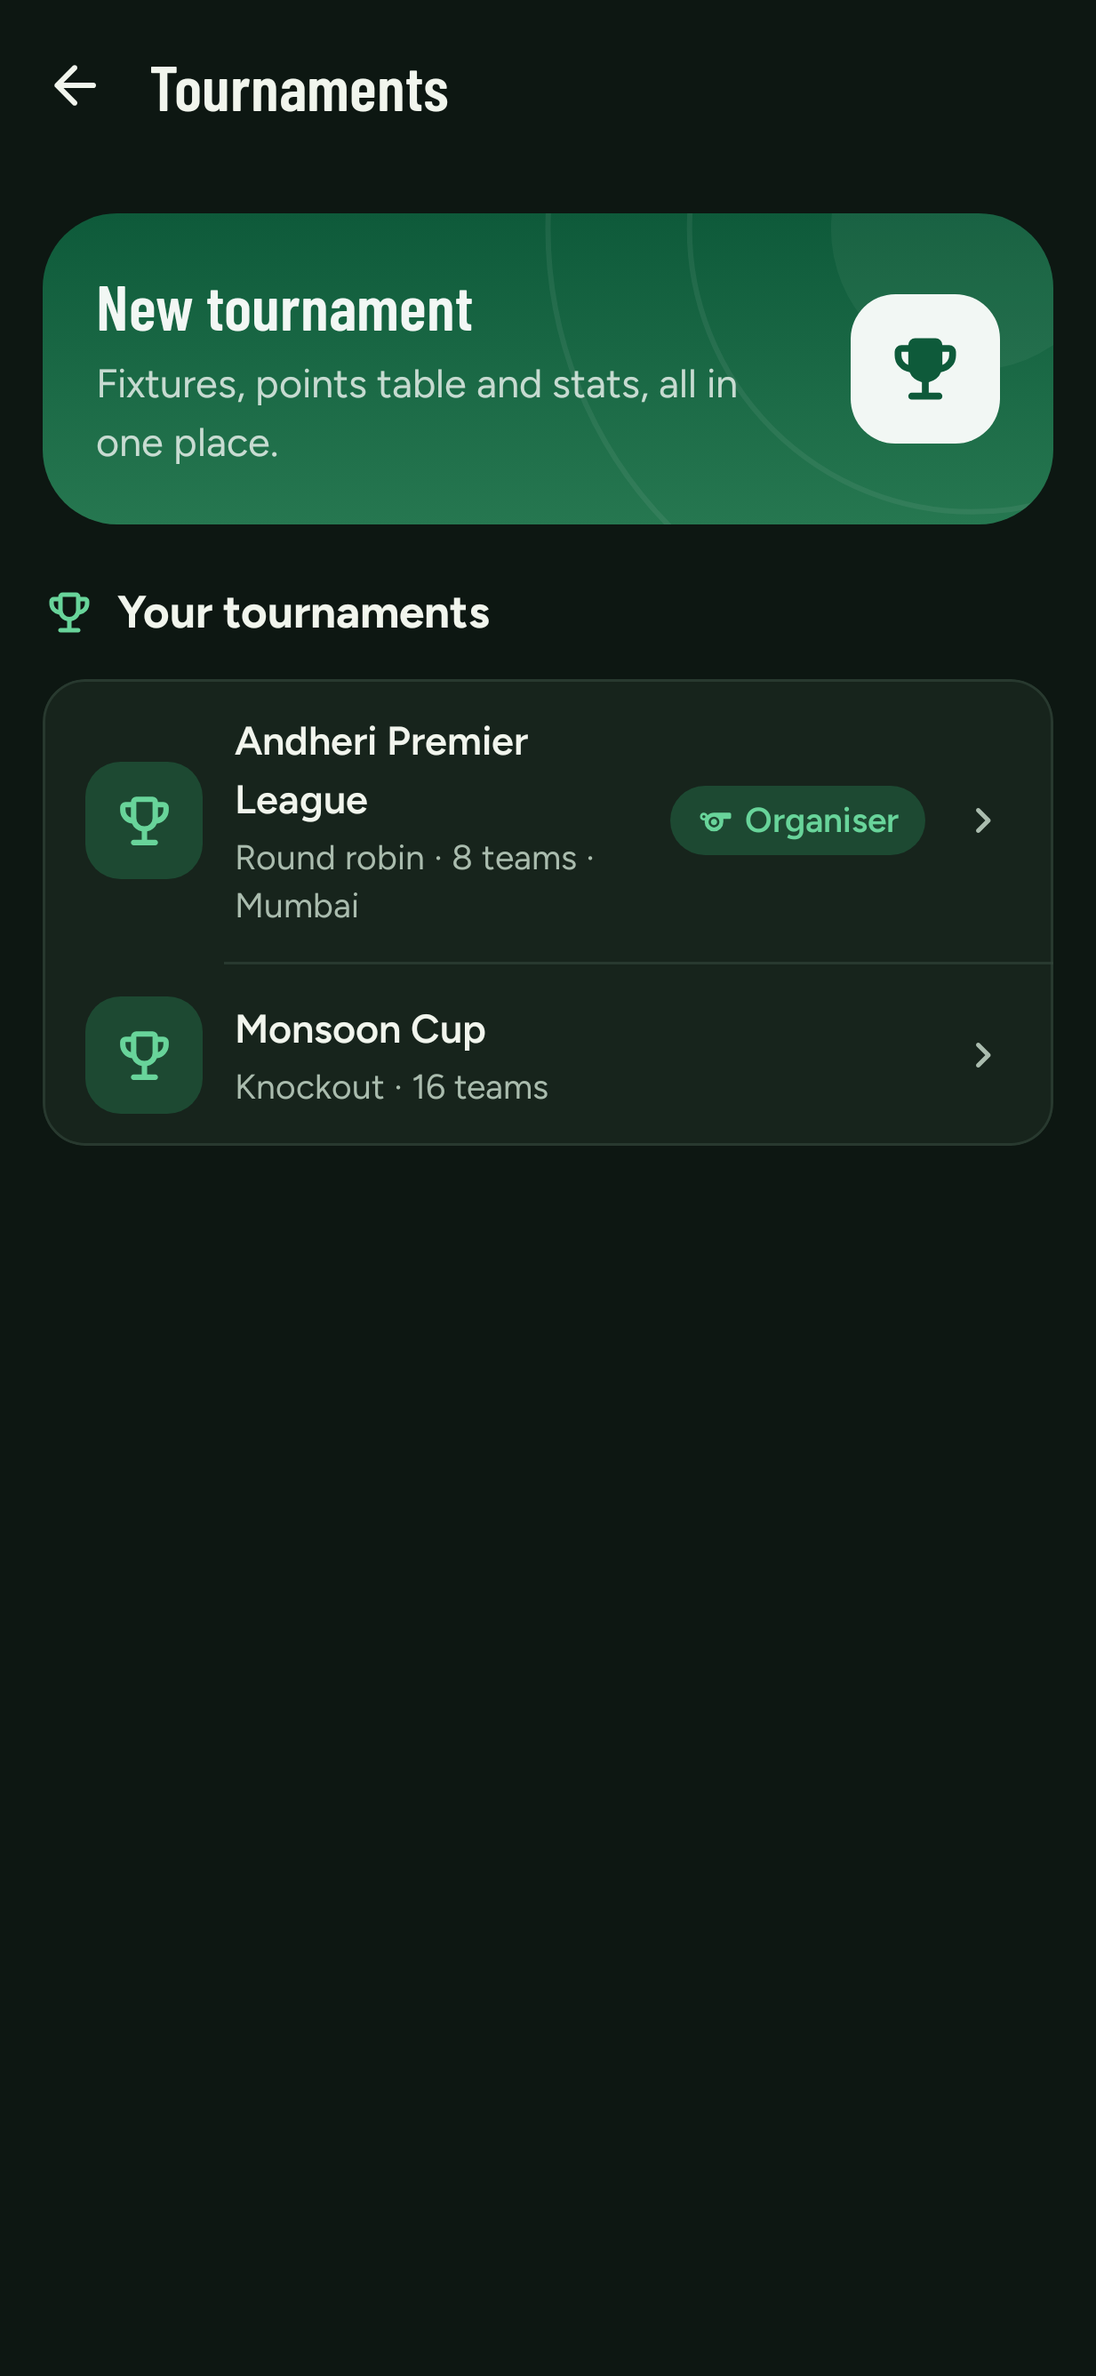
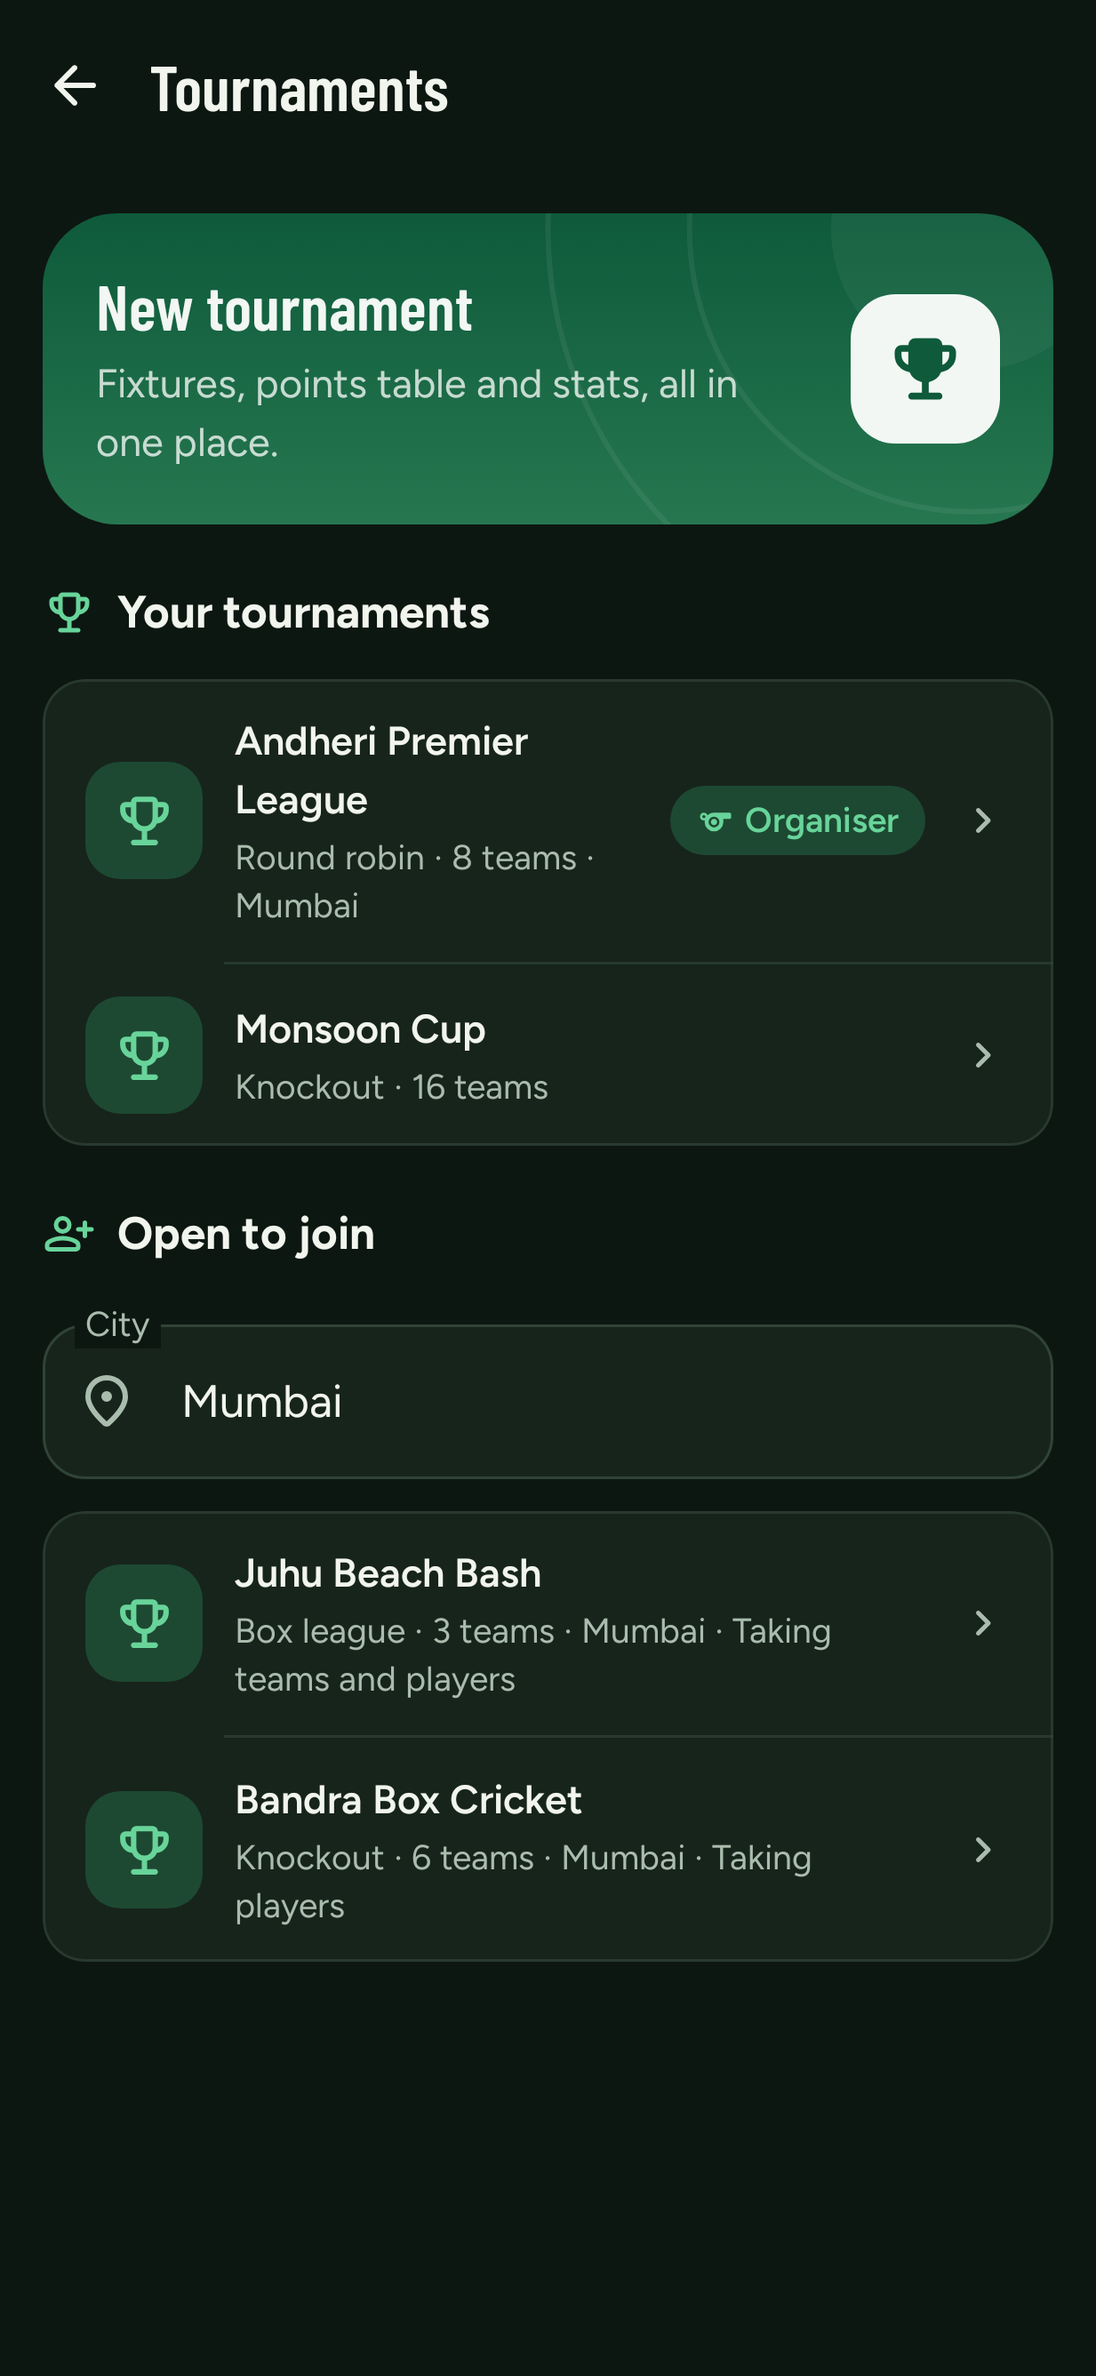
List tournaments open to join on the Tournaments tab
The Tournaments tab gets an "Open to join" section: tournaments that
haven't started and take teams or players, in the user's city (which
they can change, or clear for anywhere), soonest start first.

diff --git a/app/shared/src/commonMain/kotlin/com/harsh/desicrics/ui/tournament/TournamentsScreen.kt b/app/shared/src/commonMain/kotlin/com/harsh/desicrics/ui/tournament/TournamentsScreen.kt
@@ -62,18 +62,21 @@ import com.harsh.desicrics.ui.newmatch.ExtraRunQuestions
 import com.harsh.desicrics.ui.newmatch.RulesPreset
 import org.jetbrains.compose.resources.pluralStringResource
 import org.jetbrains.compose.resources.stringResource
+import com.harsh.desicrics.ui.text.dayLabel
 import org.koin.compose.viewmodel.koinViewModel
+import org.koin.core.parameter.parametersOf
 
 @Composable
 fun TournamentsScreen(
+    city: String,
     onOpen: (String) -> Unit,
     /** Null where it is a tab of its own, with nothing behind it. */
     onBack: (() -> Unit)?,
-    viewModel: TournamentsViewModel = koinViewModel(),
+    viewModel: TournamentsViewModel = koinViewModel { parametersOf(city) },
 ) {
     val state by viewModel.state.collectAsStateWithLifecycle()
     var creating by rememberSaveable { mutableStateOf(false) }
-    TournamentsContent(state, onOpen, onCreate = { creating = true }, onBack, onRetry = viewModel::retry)
+    TournamentsContent(state, onOpen, onCreate = { creating = true }, onBack, onRetry = viewModel::retry, onCity = viewModel::setCity)
     if (creating) {
         CreateTournamentSheet(
             saving = state.saving,
@@ -88,7 +91,14 @@ fun TournamentsScreen(
 }
 
 @Composable
-fun TournamentsContent(state: TournamentsUiState, onOpen: (String) -> Unit, onCreate: () -> Unit, onBack: (() -> Unit)?, onRetry: () -> Unit = {}) {
+fun TournamentsContent(
+    state: TournamentsUiState,
+    onOpen: (String) -> Unit,
+    onCreate: () -> Unit,
+    onBack: (() -> Unit)?,
+    onRetry: () -> Unit = {},
+    onCity: (String) -> Unit = {},
+) {
     val space = DesiTheme.space
     DesiScaffold(title = stringResource(Res.string.tournaments_title), onBack = onBack) { padding ->
         LazyColumn(
@@ -107,6 +117,29 @@ fun TournamentsContent(state: TournamentsUiState, onOpen: (String) -> Unit, onCr
                 item {
                     ListCard {
                         state.tournaments.forEachIndexed { index, t -> TournamentRow(t, divider = index > 0, onClick = { onOpen(t.id) }) }
+                    }
+                }
+            }
+            if (!state.loadFailed) {
+                item { SectionHeader(stringResource(Res.string.tournaments_open), icon = DesiIcons.PersonAdd, modifier = Modifier.padding(top = space.s2)) }
+                item {
+                    DesiTextField(
+                        value = state.city,
+                        onValueChange = onCity,
+                        label = stringResource(Res.string.community_city),
+                        leadingIcon = DesiIcons.Location,
+                        supportingText = stringResource(Res.string.tournaments_open_anywhere).takeIf { state.city.isBlank() },
+                        keyboardOptions = KeyboardOptions(capitalization = KeyboardCapitalization.Words),
+                    )
+                }
+                // The user's own tournaments are listed above already.
+                val mine = state.tournaments.map { it.id }.toSet()
+                val open = state.open.filter { it.id !in mine }
+                item {
+                    if (open.isEmpty()) {
+                        Text(stringResource(Res.string.tournaments_open_none), style = DesiTheme.type.caption, color = DesiTheme.colors.muted)
+                    } else {
+                        ListCard { open.forEachIndexed { index, t -> TournamentRow(t, divider = index > 0, onClick = { onOpen(t.id) }) } }
                     }
                 }
             }
@@ -134,10 +167,18 @@ private fun CreateTournamentCard(onCreate: () -> Unit) {
 
 @Composable
 private fun TournamentRow(tournament: TournamentSummary, divider: Boolean, onClick: () -> Unit) {
+    val taking = when {
+        tournament.takesTeams && tournament.takesPlayers -> stringResource(Res.string.tournaments_taking_both)
+        tournament.takesTeams -> stringResource(Res.string.tournaments_taking_teams)
+        tournament.takesPlayers -> stringResource(Res.string.tournaments_taking_players)
+        else -> ""
+    }
     val details = listOf(
         stringResource(tournament.format.label),
         pluralStringResource(Res.plurals.tournaments_team_count, tournament.teams, tournament.teams),
         tournament.city,
+        tournament.startsAt?.let { stringResource(Res.string.tournaments_starts, dayLabel(it)) }.orEmpty(),
+        taking,
     )
     ListRow(
         title = tournament.name,

diff --git a/server/src/main/kotlin/com/harsh/desicrics/store/ExposedTournamentStore.kt b/server/src/main/kotlin/com/harsh/desicrics/store/ExposedTournamentStore.kt
@@ -9,6 +9,7 @@ import com.harsh.desicrics.db.TournamentTeamsTable
 import com.harsh.desicrics.db.TournamentsTable
 import com.harsh.desicrics.db.query
 import com.harsh.desicrics.api.EntrySettingsRequest
+import com.harsh.desicrics.model.EntryPolicy
 import com.harsh.desicrics.model.EntryStatus
 import com.harsh.desicrics.model.Organiser
 import com.harsh.desicrics.model.OrganiserRole
@@ -21,7 +22,9 @@ import org.jetbrains.exposed.v1.core.JoinType
 import org.jetbrains.exposed.v1.core.SortOrder
 import org.jetbrains.exposed.v1.core.and
 import org.jetbrains.exposed.v1.core.eq
+import org.jetbrains.exposed.v1.core.greater
 import org.jetbrains.exposed.v1.core.inList
+import org.jetbrains.exposed.v1.core.lowerCase
 import org.jetbrains.exposed.v1.core.isNull
 import org.jetbrains.exposed.v1.core.neq
 import org.jetbrains.exposed.v1.core.or
@@ -137,6 +140,30 @@ class ExposedTournamentStore(private val db: Database) : TournamentStore {
         TournamentsTable.selectAll().where { TournamentsTable.id inList ids }.orderBy(TournamentsTable.createdAt, SortOrder.DESC).map {
             val id = it[TournamentsTable.id]
             TournamentSummary(id, it[TournamentsTable.name], it[TournamentsTable.city], it[TournamentsTable.format], counts[id] ?: 0, id in organised)
+        }
+    }
+
+    override suspend fun open(city: String, now: Long, limit: Int): List<TournamentSummary> = db.query {
+        val taking = (TournamentsTable.teamEntry neq EntryPolicy.ORGANISERS) or (TournamentsTable.playerEntry neq EntryPolicy.ORGANISERS)
+        val notClosed = TournamentsTable.entryClosesAt.isNull() or (TournamentsTable.entryClosesAt greater now)
+        val where = (TournamentsTable.started eq false) and taking and notClosed
+        val rows = TournamentsTable.selectAll()
+            .where { if (city.isBlank()) where else where and (TournamentsTable.city.lowerCase() eq city.trim().lowercase()) }
+            .orderBy(TournamentsTable.startsAt to SortOrder.ASC_NULLS_LAST, TournamentsTable.createdAt to SortOrder.DESC)
+            .limit(limit)
+            .toList()
+        val ids = rows.map { it[TournamentsTable.id] }
+        val counts = if (ids.isEmpty()) emptyMap() else TournamentTeamsTable.selectAll()
+            .where { (TournamentTeamsTable.tournamentId inList ids) and (TournamentTeamsTable.status eq EntryStatus.CONFIRMED) }
+            .groupingBy { it[TournamentTeamsTable.tournamentId] }.eachCount()
+        rows.map {
+            val id = it[TournamentsTable.id]
+            TournamentSummary(
+                id, it[TournamentsTable.name], it[TournamentsTable.city], it[TournamentsTable.format], counts[id] ?: 0,
+                startsAt = it[TournamentsTable.startsAt],
+                takesTeams = it[TournamentsTable.teamEntry] != EntryPolicy.ORGANISERS,
+                takesPlayers = it[TournamentsTable.playerEntry] != EntryPolicy.ORGANISERS,
+            )
         }
     }
 

diff --git a/server/src/test/kotlin/com/harsh/desicrics/TournamentsTest.kt b/server/src/test/kotlin/com/harsh/desicrics/TournamentsTest.kt
@@ -456,4 +456,25 @@ class TournamentsTest {
         client.put("/tournaments/${cup.id}/entry") { bearerAuth("test-asha"); jsonBody(closed) }
         assertEquals(HttpStatusCode.Conflict, client.addPlayer("om", cup.id).status)
     }
+
+    @Test
+    fun tournamentsOpenToJoinAreListedByCitySoonestFirst() = apiTest { client ->
+        client.setUpProfile("asha")
+        fun request(name: String, city: String, startsAt: Long? = null, teams: EntryPolicy = EntryPolicy.APPROVAL, players: EntryPolicy = EntryPolicy.APPROVAL, closes: Long? = null) =
+            CreateTournamentRequest(name, city, TournamentFormat.KNOCKOUT, 5, startsAt = startsAt, teamEntry = teams, playerEntry = players, entryClosesAt = closes)
+        client.tournament("asha", request("Later Cup", "Pune", startsAt = 2_000_000_000_000))
+        client.tournament("asha", request("Soon Cup", "pune", startsAt = 1_900_000_000_000, teams = EntryPolicy.ORGANISERS))
+        client.tournament("asha", request("Undated Cup", "Pune"))
+        client.tournament("asha", request("Invite Only", "Pune", teams = EntryPolicy.ORGANISERS, players = EntryPolicy.ORGANISERS))
+        client.tournament("asha", request("Closed Cup", "Pune", closes = 1))
+        client.tournament("asha", request("Mumbai Cup", "Mumbai"))
+        val started = client.tournament("asha", request("Started Cup", "Pune", teams = EntryPolicy.ORGANISERS)).tournament
+        (1..2).map { client.team("asha", "Team $it") }.forEach { client.enter("asha", started.id, it.id) }
+        client.post("/tournaments/${started.id}/start") { bearerAuth("test-asha") }
+
+        val pune = client.get("/tournaments/open?city=PUNE") { bearerAuth("test-asha") }.body<List<TournamentSummary>>()
+        assertEquals(listOf("Soon Cup", "Later Cup", "Undated Cup"), pune.map { it.name })
+        assertEquals(false to true, pune.first().takesTeams to pune.first().takesPlayers)
+        assertEquals(4, client.get("/tournaments/open") { bearerAuth("test-asha") }.body<List<TournamentSummary>>().size)
+    }
 }

diff --git a/app/shared/src/commonMain/kotlin/com/harsh/desicrics/ui/tournament/TournamentViewModels.kt b/app/shared/src/commonMain/kotlin/com/harsh/desicrics/ui/tournament/TournamentViewModels.kt
@@ -30,14 +30,19 @@ import kotlinx.coroutines.launch
 data class TournamentsUiState(
     val loading: Boolean = true,
     val tournaments: List<TournamentSummary> = emptyList(),
+    /** Where to look for tournaments open to join; starts as the user's own city. */
+    val city: String = "",
+    /** Tournaments taking entries in [city], leaving out the user's own. */
+    val open: List<TournamentSummary> = emptyList(),
     val loadFailed: Boolean = false,
     val saving: Boolean = false,
     val createFailed: Boolean = false,
 )
 
-class TournamentsViewModel(private val repository: TournamentRepository) : ViewModel() {
-    private val _state = MutableStateFlow(TournamentsUiState())
+class TournamentsViewModel(city: String, private val repository: TournamentRepository) : ViewModel() {
+    private val _state = MutableStateFlow(TournamentsUiState(city = city))
     val state: StateFlow<TournamentsUiState> = _state
+    private var openJob: Job? = null
 
     init {
         retry()
@@ -51,6 +56,21 @@ class TournamentsViewModel(private val repository: TournamentRepository) : ViewM
                 onSuccess = { list -> _state.update { it.copy(loading = false, tournaments = list) } },
                 onFailure = { _state.update { it.copy(loading = false, loadFailed = true) } },
             )
+        }
+        loadOpen()
+    }
+
+    /** Looks for open tournaments in another city, once the user stops typing. */
+    fun setCity(city: String) {
+        _state.update { it.copy(city = city.take(100)) }
+        loadOpen(wait = true)
+    }
+
+    private fun loadOpen(wait: Boolean = false) {
+        openJob?.cancel()
+        openJob = viewModelScope.launch {
+            if (wait) delay(400)
+            attempt { repository.open(_state.value.city) }.getOrNull()?.let { list -> _state.update { it.copy(open = list) } }
         }
     }
 

diff --git a/server/src/main/kotlin/com/harsh/desicrics/service/TournamentService.kt b/server/src/main/kotlin/com/harsh/desicrics/service/TournamentService.kt
@@ -75,6 +75,9 @@ class TournamentService(
 
     suspend fun mine(user: FirebasePrincipal): List<TournamentSummary> = tournaments.forUser(user.uid)
 
+    /** Tournaments anyone can ask to enter now, in [city] or anywhere. */
+    suspend fun open(city: String): List<TournamentSummary> = tournaments.open(city.take(100), clock(), OPEN_PAGE)
+
     suspend fun create(user: FirebasePrincipal, request: CreateTournamentRequest): TournamentDetails {
         request.validate()?.let { throw ApiException(HttpStatusCode.BadRequest, it.message) }
         if (users.get(user.uid) == null) throw ApiException(HttpStatusCode.Conflict, "Set up your profile first")
@@ -533,6 +536,8 @@ class TournamentService(
     private companion object {
         const val TEAM = "team"
         const val PLAYER = "player"
+        /** The most tournaments open to join listed at once. */
+        const val OPEN_PAGE = 30
     }
 
     private suspend fun requireOrganiser(user: FirebasePrincipal, tournamentId: String): Tournament {

diff --git a/server/src/main/kotlin/com/harsh/desicrics/store/Stores.kt b/server/src/main/kotlin/com/harsh/desicrics/store/Stores.kt
@@ -216,6 +216,11 @@ interface TournamentStore {
     suspend fun get(tournamentId: String): Tournament?
     /** Tournaments [uid] organises, plays in, or that a team they belong to is in. */
     suspend fun forUser(uid: String): List<TournamentSummary>
+    /**
+     * Tournaments that haven't started and take teams or players before [now], in [city] (any case) unless
+     * it's blank; soonest start first, then newest.
+     */
+    suspend fun open(city: String, now: Long, limit: Int): List<TournamentSummary>
     /** False if the team was already entered. */
     suspend fun addTeam(tournamentId: String, team: TournamentTeam): Boolean
     suspend fun setTeamStatus(tournamentId: String, teamId: String, status: EntryStatus)

diff --git a/app/shared/src/androidHostTest/kotlin/com/harsh/desicrics/ScreenshotTest.kt b/app/shared/src/androidHostTest/kotlin/com/harsh/desicrics/ScreenshotTest.kt
@@ -348,6 +348,11 @@ class ScreenshotTest {
                     TournamentSummary("x", "Andheri Premier League", "Mumbai", TournamentFormat.ROUND_ROBIN, 8, isOrganiser = true),
                     TournamentSummary("y", "Monsoon Cup", "", TournamentFormat.KNOCKOUT, 16),
                 ),
+                city = "Mumbai",
+                open = listOf(
+                    TournamentSummary("z", "Juhu Beach Bash", "Mumbai", TournamentFormat.BOX_LEAGUE, 3, takesTeams = true, takesPlayers = true),
+                    TournamentSummary("w", "Bandra Box Cricket", "Mumbai", TournamentFormat.KNOCKOUT, 6, takesPlayers = true),
+                ),
             ),
             {}, {}, {},
         )

diff --git a/core/src/commonMain/kotlin/com/harsh/desicrics/api/TournamentsApi.kt b/core/src/commonMain/kotlin/com/harsh/desicrics/api/TournamentsApi.kt
@@ -14,6 +14,7 @@ import kotlinx.serialization.Serializable
 // Tournaments.
 //
 //   GET    /tournaments/mine                       → List<TournamentSummary> (organised, or a team entered)
+//   GET    /tournaments/open?city=                 → List<TournamentSummary> taking teams or players, soonest first
 //   POST   /tournaments                            CreateTournamentRequest → TournamentDetails
 //   GET    /tournaments/{id}                       → TournamentDetails
 //   PUT    /tournaments/{id}/entry                 EntrySettingsRequest → TournamentDetails (organisers, before it starts)

diff --git a/app/shared/src/commonMain/kotlin/com/harsh/desicrics/data/TournamentRepository.kt b/app/shared/src/commonMain/kotlin/com/harsh/desicrics/data/TournamentRepository.kt
@@ -16,6 +16,9 @@ class TournamentRepository(private val api: DesiCricsApi, private val config: Ap
 
     suspend fun mine(): List<TournamentSummary> = api.myTournaments()
 
+    /** Tournaments taking teams or players now, in [city] or anywhere when it's blank. */
+    suspend fun open(city: String): List<TournamentSummary> = api.openTournaments(city.trim())
+
     suspend fun create(request: CreateTournamentRequest): TournamentDetails =
         api.createTournament(request).also { analytics.log(AnalyticsEvents.TOURNAMENT_CREATED, mapOf("format" to request.format.name.lowercase())) }
 

diff --git a/app/shared/src/commonMain/kotlin/com/harsh/desicrics/di/Koin.kt b/app/shared/src/commonMain/kotlin/com/harsh/desicrics/di/Koin.kt
@@ -94,7 +94,7 @@ val viewModelModule = module {
     viewModelOf(::ProfileViewModel)
     viewModel { (teamId: String) -> TeamViewModel(teamId, get(), get(), get()) }
     viewModelOf(::SearchViewModel)
-    viewModelOf(::TournamentsViewModel)
+    viewModel { (city: String) -> TournamentsViewModel(city, get()) }
     viewModel { (profileId: String) -> CareerViewModel(profileId, get()) }
     viewModel { (profileId: String) -> CompareViewModel(profileId, get(), get()) }
     viewModel { (tournamentId: String?) -> LeaderboardViewModel(tournamentId, get()) }

diff --git a/app/shared/src/commonMain/kotlin/com/harsh/desicrics/navigation/AppNavigation.kt b/app/shared/src/commonMain/kotlin/com/harsh/desicrics/navigation/AppNavigation.kt
@@ -242,7 +242,7 @@ fun AppNavigation(
             }
             entry<TournamentsRoute> {
                 // The Tournaments tab's root, like Feed and Me, has no back arrow.
-                TournamentsScreen(onOpen = { backStack.add(TournamentRoute(it)) }, onBack = if (backStack.size > 1) back else null)
+                TournamentsScreen(city = profile.city, onOpen = { backStack.add(TournamentRoute(it)) }, onBack = if (backStack.size > 1) back else null)
             }
             entry<TournamentRoute> { route ->
                 TournamentScreen(

diff --git a/server/src/main/kotlin/com/harsh/desicrics/TournamentRoutes.kt b/server/src/main/kotlin/com/harsh/desicrics/TournamentRoutes.kt
@@ -25,6 +25,7 @@ import io.ktor.server.routing.route
 fun Route.tournamentRoutes(tournaments: TournamentService) {
     route("/tournaments") {
         get("/mine") { call.respond(tournaments.mine(call.user)) }
+        get("/open") { call.respond(tournaments.open(call.request.queryParameters["city"].orEmpty())) }
         post { call.respond(HttpStatusCode.Created, tournaments.create(call.user, call.receive<CreateTournamentRequest>())) }
         route("/{id}") {
             get { call.respond(tournaments.details(call.parameters["id"].orEmpty())) }
